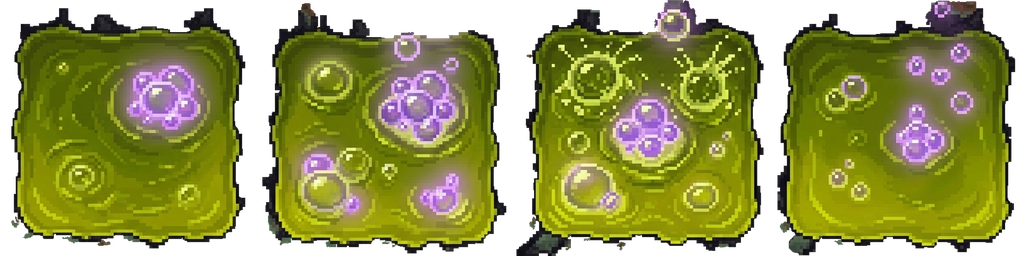
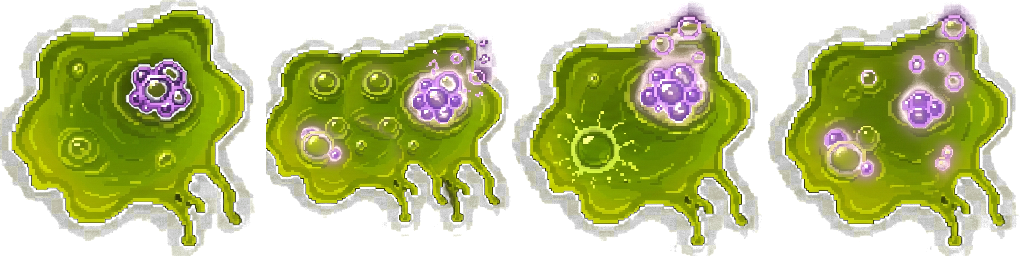
Кислотная лужа больше не квадрат
Она была единственным прямоугольным объектом в мире, где всё остальное
органическое: посреди мха лежала жёлто-зелёная плитка со скруглёнными углами
и ровной каменной каймой по периметру. Самая заметная неаккуратность в кадре.
Теперь это рваное пятно с подтёками.

Лист пришёл с нарисованной шахматкой, но здесь её удалось снять — тем самым
ключом, который не сработал на кроне элиты. Разница в насыщенности: у лужи
109..166 против 0..2 у клеток, у кроны шипы почти серые и срезались вместе с
подложкой. Отсюда третий режим --mode grey: ключом служит сама насыщенность,
и годится он ТОЛЬКО когда в рисунке нет своих бесцветных мест.

Заодно вылечено дёрганье, замеченное ещё на первой версии листа: пятно
гуляло по клетке на 12% ширины между кадрами, и на 5,5 кадра в секунду это
читалось бы как подрагивание на месте. Ключ --anchor берёт масштаб и центр по
главной фигуре кадра — после пересборки центр во всех четырёх (127..128, 127).

Радиус урона оставлен прежним. Новое пятно шире круга урона, то есть лужа
выглядит опаснее, чем жжёт; ошибаться тут надо именно в эту сторону, а не
наоборот.

В отладочный объект добавлена карта: декорации ставятся по хешу клетки и
попадаются редко, а с GAME.map.bag=["acid_pool"] нужную видно сразу.

Claude-Session: https://claude.ai/code/session_01Hvf9Tkqkzu5ppBC5K37pRp

diff --git a/docs/js/config.js b/docs/js/config.js
@@ -650,8 +650,11 @@ export const CONFIG = {
         image: "propAcidPool", width: 120, weight: 2,
         flat: true, frames: 4, animSpeed: 11,
         // Лужа жжёт всех, кто в неё зашёл, — и игрока, и врагов.
-        // hazardRadius — доля от width: у спрайта есть каменный бортик,
-        // поэтому урон идёт только по зелёной середине.
+        // radius — доля от width. Раньше спрайт был КВАДРАТОМ с каменным
+        // бортиком, и 0.36 отмеряли зелёную середину внутри него. Теперь это
+        // рваное пятно без бортика, и оно шире круга урона: лужа выглядит
+        // опаснее, чем жжёт. Так и оставлено намеренно — ошибаться надо в
+        // сторону «показалось опасным, а обошлось», а не наоборот.
         hazard: { radius: 0.36, dps: 9, spore: 4, enemyDps: 14 }
       }
     },

diff --git a/docs/js/main.js b/docs/js/main.js
@@ -367,6 +367,10 @@ if(new URLSearchParams(location.search).has("debug")){
     // десятого уровня — это десять минут на одну проверку одного числа.
     upgrades:upgradeSystem,
     battle,
+    // Карта: декорации ставятся по хешу клетки из мешка map.bag, то есть
+    // случайно и редко. Чтобы посмотреть на одну конкретную (например, на
+    // кислотную лужу), мешок проще подменить: GAME.map.bag=["acid_pool"].
+    map,
     // Ввод: без него нельзя проверить джойстик иначе как пальцем по телефону
     input,
     // Живой конфиг: правки видны со следующего кадра, без перезагрузки.

diff --git a/tools/cut_key.py b/tools/cut_key.py
@@ -65,6 +65,21 @@ def cut(img, key, lo, hi, mode="saturated"):
     a = np.asarray(img.convert("RGB")).astype(np.float32)
     k = np.array(key, dtype=np.float32)
     w = k - k.mean()                       # направление «в сторону ключа»
+    if mode == "grey":
+        # СЕРЫЙ ФОН (нарисованная шахматка). Работает ТОЛЬКО если в рисунке
+        # нет своих нейтральных мест: ключом служит сама насыщенность, и всё
+        # бесцветное уйдёт в прозрачность вместе с подложкой. Для кислотной
+        # лужи это верно — у неё насыщенность 109..166 против 0..2 у клеток.
+        # Для кроны элиты было неверно: её шипы почти серые, и их срезало.
+        chroma = a.max(axis=2) - a.min(axis=2)
+        alpha = np.clip((chroma - 6.0) / 42.0, 0.0, 1.0)
+        # фон вычитаем как ровный серый — берём его из самой картинки
+        flat = a[(chroma < 4)]
+        B = float(flat.mean()) if len(flat) else 64.0
+        den = np.maximum(alpha, 0.06)[..., None]
+        F = np.clip((a - (1 - alpha[..., None]) * B) / den, 0, 255)
+        F = np.where(alpha[..., None] > 0.98, a, F)
+        return np.dstack([F.astype(np.uint8), (alpha * 255).astype(np.uint8)])
     if mode == "pale":
         norm = float((k * w).sum() - k.mean() * w.sum())
         if abs(norm) < 1e-3:
@@ -219,8 +234,10 @@ def main():
     p.add_argument("--key", default="FF00FF", help="цвет фона в hex, по умолчанию магента")
     p.add_argument("--lo", type=float, default=0.05, help="ниже этой альфы — считаем чистым фоном")
     p.add_argument("--hi", type=float, default=0.14, help="выше 1-hi — считаем полностью непрозрачным")
-    p.add_argument("--mode", choices=("saturated","pale"), default="saturated",
-                   help="pale — если в картинке есть кремовое, белое, бледное:\n                        режим по умолчанию такое съедает")
+    p.add_argument("--mode", choices=("saturated","pale","grey"), default="saturated",
+                   help="pale — если в картинке есть кремовое, белое, бледное; "
+                        "grey — фон СЕРЫЙ (нарисованная шахматка), годится только "
+                        "когда в самом рисунке нет бесцветных мест")
     p.add_argument("--grid", help="пересобрать в ровную сетку, напр. 4x1 (колонки x ряды)")
     p.add_argument("--cell", type=int, default=256, help="сторона клетки на выходе")
     p.add_argument("--pad", type=float, default=0.06, help="поля вокруг содержимого клетки")

diff --git a/docs/ASSET_PROMPTS.md b/docs/ASSET_PROMPTS.md
@@ -60,10 +60,10 @@ checkerboard pattern, no grey and white squares, no chequered backdrop.
 
 ```
 python3 tools/cut_key.py вход.png docs/assets/images/ui/emblem.png --mode pale
-python3 tools/cut_key.py вход.png docs/assets/images/effects/acid_pool.png --grid 4x1 --cell 256
+python3 tools/cut_key.py вход.png docs/assets/images/effects/acid_pool.png --mode grey --grid 4x1 --cell 256 --anchor
 ```
 
-**У скрипта два режима, и выбирать их надо глазами.** Кеинг недоопределён:
+**У скрипта три режима, и выбирать их надо глазами.** Кеинг недоопределён:
 в пикселе три числа, а неизвестных четыре (цвет и прозрачность), поэтому
 алгоритм добавляет допущение о том, каким бывает рисунок.
 
@@ -71,11 +71,17 @@ python3 tools/cut_key.py вход.png docs/assets/images/effects/acid_pool.png -
   любого спрайта. Бледное съедает: кремовая нить это высокий красный и
   высокий синий, по такой мерке «в основном фон», и она станет прозрачной;
 * `--mode pale` — «рисунок не перекошен в сторону ключа». Спасает кремовое и
-  белое, но золотой ореол от него розовеет.
+  белое, но золотой ореол от него розовеет;
+* `--mode grey` — фон СЕРЫЙ, а не магентовый: спасательный круг на случай,
+  когда бот всё-таки нарисовал шахматку. Ключом служит насыщенность, поэтому
+  годится, только если в рисунке нет своих бесцветных мест. На кислотной
+  луже сработал (109..166 против 0..2), на кроне элиты не сработал бы —
+  её шипы почти серые.
 
-Правило: есть в картинке кремовое, белое, бледное — `pale`, иначе обычный.
-Проверять итог обязательно на ТЁМНОМ фоне: на светлом розовый подмес и
-съеденная альфа не видны.
+Правило: фон магентовый и в картинке есть кремовое, белое, бледное — `pale`;
+фон магентовый и всё насыщенное — обычный; фон серый (шахматка) и в рисунке
+нет бесцветного — `grey`. Проверять итог обязательно на ТЁМНОМ фоне: на
+светлом розовый подмес и съеденная альфа не видны.
 
 Чего скрипт не делает ни в каком режиме — не считает альфу по расстоянию до
 ключа: оно растёт нелинейно, мягкий край получает завышенную альфу, и вокруг
@@ -892,7 +898,7 @@ CSS-градиенты, мягкие тени. Никакая сгенериро
 
 ---
 
-## 1. КИСЛОТНАЯ ЛУЖА — ПЕРЕГЕНЕРАЦИЯ, ЭТО ДЕФЕКТ
+## 1. КИСЛОТНАЯ ЛУЖА — СДЕЛАНО
 
 `effects/acid_pool.png` нарисован **квадратом со скруглёнными углами**. На
 арене он и читается квадратом: посреди мха лежит жёлто-зелёная плитка с
@@ -929,8 +935,31 @@ The 4 frames are a slow bubbling loop: bubbles swell and pop in different
 places, the outline stays exactly the same in all four frames.
 ```
 
-Конфиг не меняется — файл кладётся на то же место, `map.props.acid_pool`
-уже настроен (`flat: true, frames: 4`).
+**Готово.** Пятно теперь рваное, с подтёками, квадрата нет.
+
+Две вещи, которые всплыли при вклейке:
+
+* лист пришёл с нарисованной шахматкой, но здесь она снялась — тем самым
+  ключом, который не сработал на кроне элиты. Разница в насыщенности: у лужи
+  109..166 против 0..2 у клеток, у кроны шипы почти серые. Отсюда
+  `--mode grey`: ключом служит сама насыщенность, и годится он ТОЛЬКО когда
+  в рисунке нет своих бесцветных мест;
+* кадры гуляли по клетке — пятно смещалось на 12% ширины между 1-м и 2-м
+  кадром, и на 5,5 кадра в секунду это читалось бы как подёргивание. Лечится
+  ключом `--anchor`: масштаб и центр берутся по главной фигуре кадра. После
+  пересборки центр во всех четырёх — (127..128, 127).
+
+Команда целиком:
+
+```
+python3 tools/cut_key.py вход.png docs/assets/images/effects/acid_pool.png \
+        --mode grey --grid 4x1 --cell 256 --anchor --pad 0.04
+```
+
+Конфиг не менялся: `map.props.acid_pool` уже был настроен
+(`flat: true, frames: 4`). Радиус урона остался прежним — новое пятно шире
+круга урона, то есть лужа выглядит опаснее, чем жжёт. Так и надо: ошибаться
+лучше в сторону «показалось опасным, а обошлось».
 
 ---
 
